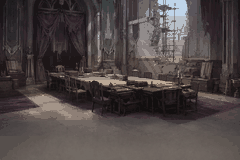
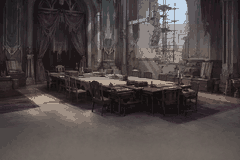
fix(grado): separate visual IDs from sentinels and constrain palette banks
Apply the bound third-round redesign with named designated BG/CG IDs and six-bank carriers through existing data slots. Exercise twenty production debug-ROM consumers, actual tile/palette transfers and persisted CG bits through ARM GDB. Keep the broader stock/random/outgoing/default and artistic qualification explicitly open.

Changed region(s): [[0.6708, 0.0938, 0.7875, 0.25], [0.9042, 0.5938, 0.9333, 0.625], [0.4083, 0.2188, 0.4375, 0.25]]

diff --git a/tools/gba-playtest/tests/test_grado_visuals_native.py b/tools/gba-playtest/tests/test_grado_visuals_native.py
@@ -5,6 +5,8 @@ import itertools
 import json
 import os
 from pathlib import Path
+import re
+import shutil
 import struct
 import subprocess
 import sys
@@ -13,6 +15,7 @@ import unittest
 
 from scripts.localization.game_catalog.tests.runtime.initial_cache_native import _selected_tools
 from scripts.generated_data.validators import extract_enum_constants
+from scripts.modernize import gdb_smoke
 
 ROOT = Path(__file__).resolve().parents[3]
 sys.path.insert(0, str(ROOT / "tools/gba-playtest"))
@@ -24,10 +27,10 @@ from probe_bindings import resolve_elf_symbol, resolve_elf_symbol_address
 
 @unittest.skipIf(host_only_enabled(), "explicit host-only lane excludes ARM/libmGBA execution")
 class GradoVisualNativeTests(unittest.TestCase):
-    def run_command(self, command, *, cwd):
+    def run_command(self, command, *, cwd, timeout=90):
         result = subprocess.run(
             [str(value) for value in command], cwd=cwd,
-            capture_output=True, text=True, timeout=90,
+            capture_output=True, text=True, timeout=timeout,
         )
         self.assertEqual(result.returncode, 0, result.stdout + result.stderr)
 
@@ -492,3 +495,155 @@ ASSERT(SIZEOF(.data) + SIZEOF(.ewram) < 0x40000, "module EWRAM overflow")
                 "accepted CH02 (7,10) route is now reachable; update the retained warning",
             )
             print(json.dumps({"actual_native_records": observed}, sort_keys=True))
+
+    def test_selected_static_consumers(self):
+        output = ROOT / "build/projects/restoration-of-grado/primary/debug/aapcs"
+        self.run_command([
+            "make", "--no-print-directory", "-j2", "FE8_PROJECT=restoration-of-grado",
+            "FE8_PROJECT_PROFILE=primary", "MODERN_CONFIG=debug", "expansion-modern-rom",
+        ], cwd=ROOT, timeout=900)
+        elf, rom = output / "fireemblem8.elf", output / "fireemblem8.gba"
+        gdb = gdb_smoke.select_command(("arm-none-eabi-gdb", "gdb-multiarch"), "ARM GDB")
+        mgba = gdb_smoke.select_command(("mgba", "/usr/games/mgba"), "mGBA SDL frontend")
+        records = []
+        with tempfile.TemporaryDirectory(prefix="grado-static-native-", dir=ROOT / "build") as directory:
+            work = Path(directory)
+            palette_guard = b"\x5a\x5a" * 512
+            tilemap_guard = b"\x77\x77" * 1024
+            for name, data in (
+                ("palette-input", palette_guard), ("tilemap-input", tilemap_guard),
+            ):
+                (work / name).write_bytes(data)
+
+            def capture(setup, call, bg):
+                self.assertTrue(gdb_smoke.port_is_available(2345), "mGBA GDB port is occupied")
+                # One inferior call per fresh boot: repeated calls are not reliable in mGBA 0.10.
+                with tempfile.TemporaryDirectory(prefix="boot-", dir=work) as boot_directory:
+                    boot = Path(boot_directory)
+                    shutil.copyfile(rom, boot / "probe.gba")
+                    address = 0x06008000 if bg == 3 else 0x06000000
+                    commands = [
+                        "set pagination off", "set confirm off",
+                        "target remote 127.0.0.1:2345", "break StartGame", "continue", "disable 1",
+                        "set gLCDControlBuffer.bg2cnt.charBaseBlock = 0",
+                        "set gLCDControlBuffer.bg3cnt.charBaseBlock = 2",
+                        f"restore {work / 'palette-input'} binary &gPaletteBuffer",
+                        f"restore {work / 'tilemap-input'} binary &gBG{bg}TilemapBuffer",
+                        f"dump binary memory {boot / 'graphics-before'} {address:#x} {address + 0x5000:#x}",
+                        'printf "SRAM_OFFSET=%u\\n", ((char *)&gSram->unkstruct2-(char *)gSram)',
+                        "set $sp = $sp - 512",
+                        *setup, call,
+                        f"dump binary memory {boot / 'graphics'} {address:#x} {address + 0x5000:#x}",
+                        f"dump binary memory {boot / 'tilemap'} &gBG{bg}TilemapBuffer ((char *)&gBG{bg}TilemapBuffer+0x800)",
+                        f"dump binary memory {boot / 'palette'} &gPaletteBuffer ((char *)&gPaletteBuffer+0x400)",
+                        "disconnect",
+                    ]
+                    script = boot / "commands.gdb"
+                    script.write_text("\n".join(commands) + "\n", encoding="ascii")
+                    environment = os.environ.copy()
+                    environment.update(SDL_VIDEODRIVER="dummy", SDL_AUDIODRIVER="dummy")
+                    with (boot / "mgba.log").open("w+") as log:
+                        process = subprocess.Popen(
+                            [mgba, "-g", str(boot / "probe.gba")], env=environment,
+                            stdout=log, stderr=subprocess.STDOUT,
+                        )
+                        try:
+                            gdb_smoke.wait_for_server(process, 2345, 15)
+                            result = subprocess.run(
+                                [gdb, "-q", "-batch", str(elf), "-x", str(script)],
+                                capture_output=True, text=True, timeout=45,
+                            )
+                            self.assertEqual(result.returncode, 0, result.stdout + result.stderr)
+                        finally:
+                            gdb_smoke.terminate(process)
+                    offsets = re.findall(r"^SRAM_OFFSET=(\d+)$", result.stdout, re.MULTILINE)
+                    self.assertEqual(len(offsets), 1, result.stdout)
+                    offset = int(offsets[0])
+                    save = (boot / "probe.sav").read_bytes()
+                    self.assertGreaterEqual(len(save), offset + 20)
+                    return {
+                        **{name: (boot / name).read_bytes() for name in (
+                            "graphics", "graphics-before", "tilemap", "palette",
+                        )},
+                        "saved-cg": save[offset:offset + 20],
+                    }
+
+            carriers = (
+                (1, 0x38, "bg/grado_imperial_tomb"),
+                (1, 0x39, "bg/grado_council_hall"),
+                (2, 10, "cg/grado_funeral_omen"),
+                (2, 11, "cg/grado_title"),
+            )
+            for kind, index, carrier in carriers:
+                prefix = ROOT / "graphics" / carrier
+                raw = prefix.with_suffix(".feimg2.bin").read_bytes()
+                tsa = prefix.with_suffix(".fetsa2.bin").read_bytes()
+                palette = prefix.with_suffix(".gbapal").read_bytes()
+                self.assertEqual(tsa[:2], bytes((29, 19)))
+                entries = struct.unpack_from("<600H", tsa, 2)
+                self.assertLess(max(value >> 12 for value in entries), 6)
+                self.assertLessEqual(len(raw), 0x5000)
+                for route in ("direct", "fade2", "fade3", "literal", "slot2"):
+                    with self.subTest(carrier=carrier, route=route):
+                        bg = 2 if route == "fade2" else 3
+                        pal = 0 if bg == 2 else 8
+                        count = 6 if route.startswith("fade") else 8
+                        setup = []
+                        if route.startswith("fade"):
+                            setup = [
+                                "set $fade = (struct ConvoBackgroundFadeProc *)$sp",
+                                f"set $fade->unkType = {kind}",
+                                f"set $fade->bgIndex = {index}",
+                            ]
+                            call = f"call ConvoBackgroundFade_LoadBg{bg}($fade)"
+                        elif route in ("literal", "slot2"):
+                            setup = [
+                                "set $event = (struct EventEngineProc *)$sp",
+                                "set $event->pEventCurrent = (unsigned short *)($sp+256)",
+                                "set {unsigned short}($sp+256) = 0x2140",
+                                f"set {{short}}($sp+258) = {index if route == 'literal' else -1}",
+                                f"set $event->activeTextType = {kind}",
+                                f"set gEventSlots[2] = {index}",
+                            ]
+                            call = "call Event21_TextBg($event)"
+                        else:
+                            call = f"call EventShowTextBgDirect({kind}, {index})"
+                        actual = capture(setup, call, bg)
+                        expected_graphics = (
+                            raw.ljust(0x5000, b"\x00") if kind == 2
+                            else raw + actual["graphics-before"][len(raw):]
+                        )
+                        expected_map = bytearray(tilemap_guard)
+                        for y in range(20):
+                            for x in range(30):
+                                struct.pack_into(
+                                    "<H", expected_map, 2 * (y * 32 + x),
+                                    entries[(19 - y) * 30 + x] + (pal << 12),
+                                )
+                        expected_palette = bytearray(palette_guard)
+                        expected_palette[pal * 32:(pal + count) * 32] = palette[:count * 32]
+                        if kind == 1:
+                            expected_palette[:2] = b"\x00\x00"
+                        for name, expected in (
+                            ("graphics", expected_graphics), ("tilemap", expected_map),
+                            ("palette", expected_palette),
+                        ):
+                            mismatch = next(
+                                (i for i, pair in enumerate(zip(actual[name], expected))
+                                 if pair[0] != pair[1]), None,
+                            )
+                            self.assertEqual(len(actual[name]), len(expected), name)
+                            self.assertIsNone(
+                                mismatch, f"{carrier}/{route}: {name} first mismatch {mismatch}",
+                            )
+                        saved = struct.unpack("<4I2H", actual["saved-cg"])
+                        expected_bits = (1 << index) if kind == 2 else 0
+                        self.assertEqual(saved, (expected_bits, 0, 0, 0, 2 * expected_bits, 0))
+                        records.append({
+                            "carrier": carrier, "route": route,
+                            "graphics_bytes": len(actual["graphics"]),
+                            "tilemap_bytes": len(actual["tilemap"]),
+                            "palette_bytes": len(actual["palette"]),
+                            "saved_cg_bits": saved[0],
+                        })
+        print(json.dumps({"selected_static_consumers": records}, sort_keys=True))

diff --git a/examples/restoration-of-grado/providers/eventscr2.c b/examples/restoration-of-grado/providers/eventscr2.c
@@ -1,4 +1,5 @@
 #include "global.h"
+#include "../include/grado_visuals.h"
 
 #include "hardware.h"
 #include "proc.h"
@@ -141,6 +142,8 @@ struct CONST_DATA gfx_set gConvoBackgroundData[] = {
 	{bg_Black_Temple_Outside_tiles, bg_Black_Temple_Outside_map, bg_Black_Temple_Outside_palette},
 	{bg_Black_Temple_Inside_tiles, bg_Black_Temple_Inside_map, bg_Black_Temple_Inside_palette},
 	{bg_Blank_tiles, bg_Blank_map, bg_Blank_palette},
-	{bg_Grado_Imperial_Tomb_tiles, bg_Grado_Imperial_Tomb_map, bg_Grado_Imperial_Tomb_palette},
-	{bg_Grado_Council_Hall_tiles, bg_Grado_Council_Hall_map, bg_Grado_Council_Hall_palette},
+    [GRADO_BG_IMPERIAL_TOMB] =
+        {bg_Grado_Imperial_Tomb_tiles, bg_Grado_Imperial_Tomb_map, bg_Grado_Imperial_Tomb_palette},
+    [GRADO_BG_COUNCIL_HALL] =
+        {bg_Grado_Council_Hall_tiles, bg_Grado_Council_Hall_map, bg_Grado_Council_Hall_palette},
 };

diff --git a/examples/restoration-of-grado/providers/cg.c b/examples/restoration-of-grado/providers/cg.c
@@ -1,4 +1,5 @@
 #include "global.h"
+#include "../include/grado_visuals.h"
 #include "bmlib.h"
 #include "hardware.h"
 
@@ -226,8 +227,10 @@ struct CGDataEnt CONST_DATA gCGDataTable[] = {
     { cg_7_tiles, cg_7_map, cg_7_palette, },
     { cg_8_tiles, cg_8_map, cg_8_palette, },
     { cg_9_tiles, cg_9_map, cg_9_palette, },
-    { cg_grado_funeral_omen_tiles, cg_grado_funeral_omen_map, cg_grado_funeral_omen_palette, },
-    { cg_grado_title_tiles, cg_grado_title_map, cg_grado_title_palette, },
+    [GRADO_CG_FUNERAL_OMEN] =
+        { cg_grado_funeral_omen_tiles, cg_grado_funeral_omen_map, cg_grado_funeral_omen_palette, },
+    [GRADO_CG_TITLE] =
+        { cg_grado_title_tiles, cg_grado_title_map, cg_grado_title_palette, },
 };
 
 //! FE8U = 0x080B65EC

diff --git a/scripts/assets/tests/test_grado_visuals.py b/scripts/assets/tests/test_grado_visuals.py
@@ -52,8 +52,8 @@ class GradoVisualAssetTests(unittest.TestCase):
 
     def test_static_carriers_use_existing_tsa_and_palette_consumers(self):
         carriers = {
-            "graphics/bg/grado_imperial_tomb.png": 8,
-            "graphics/bg/grado_council_hall.png": 8,
+            "graphics/bg/grado_imperial_tomb.png": 6,
+            "graphics/bg/grado_council_hall.png": 6,
             "graphics/cg/grado_funeral_omen.png": 6,
             "graphics/cg/grado_title.png": 6,
         }

diff --git a/examples/restoration-of-grado/include/grado_visuals.h b/examples/restoration-of-grado/include/grado_visuals.h
@@ -1,0 +1,16 @@
+#ifndef GUARD_GRADO_VISUALS_H
+#define GUARD_GRADO_VISUALS_H
+
+enum GradoConvoBackground
+{
+    GRADO_BG_IMPERIAL_TOMB = 0x38,
+    GRADO_BG_COUNCIL_HALL = 0x39,
+};
+
+enum GradoCg
+{
+    GRADO_CG_FUNERAL_OMEN = 10,
+    GRADO_CG_TITLE = 11,
+};
+
+#endif

diff --git a/examples/restoration-of-grado/assets/README.md b/examples/restoration-of-grado/assets/README.md
@@ -190,8 +190,8 @@ opaque artwork. The source PNG and referenced native TSA tiles must contain
 no transparent pixels.
 The committed project PNGs are:
 
-* `grado_imperial_tomb.png` and `grado_council_hall.png`: ordinary dialogue BG
-  carriers, at most eight 16-color banks;
+* `grado_imperial_tomb.png` and `grado_council_hall.png`: dialogue BG
+  carriers, at most six 16-color banks for direct and crossfade loading;
 * `grado_funeral_omen.png`: CH00 event CG/carrier for a six-bank crossfade;
 * `grado_title.png`: title-master carrier for a six-bank special transition.
 
@@ -201,13 +201,29 @@ dependencies cannot discard the PNG input of an implicit multi-target rule.
 The regression invokes actual GNU Make with that ordering edge and checks
 all four converter argument vectors.
 The `restoration-of-grado/primary` project replaces only the four existing BG/CG
-code/data owners; default consumers and ROM data are unchanged. Its ordinary
+code/data owners; default consumers and ROM data are unchanged. The data-slot
+replacements retain native INCBIN preprocessing and asset dependencies.
+Additional ordinary C sources do not provide that preprocessing, so these raw
+owners cannot be moved to `FE8_PROJECT_C_SOURCES`.
+
+The project header `../include/grado_visuals.h` supplies named designated
+entries: `GRADO_BG_IMPERIAL_TOMB` is `0x38`, `GRADO_BG_COUNCIL_HALL` is `0x39`,
+`GRADO_CG_FUNERAL_OMEN` is `10`, and `GRADO_CG_TITLE` is `11`. Stock BG
+entries `0x00` through `0x35`, stock CG entries `0` through `9`, and
+the `BG_RANDOM` sentinel `0x37` are unchanged. The unused BG hole `0x36`
+is not a public project ID. The title carrier is not boot-title integration.
+CG IDs retain the original save-index bookkeeping.
+
+All four carriers use at most six banks: direct BG loading copies eight
+banks, but both fade loaders and both outgoing palette copies use only six.
+There is no project-only rendering path or enlarged palette copy.
+Its ordinary
 BGs enter `gConvoBackgroundData` with a 1,202-byte TSA and a 512-byte
 256-color palette file. The CG/title raw owners are split into ten 2,048-byte
 partitions expected by `DisplayCGfx`, then each uses the existing gbagfx LZ
 rule and a selected `gCGDataTable` entry. The public focused test regenerates
-the tile/TSA bytes, validates bank IDs and partitions, and rejects an ordinary
-carrier over eight banks or a crossfade carrier over six. Both CG partition
+the tile/TSA bytes, validates bank IDs and partitions, and rejects any of the
+four carriers over six banks. Both CG partition
 families are ignored build output owned by `clean` and `clean_fast`.
 Changing the splitter invalidates both families without changing the source
 image. The regression builds real partitions in a temporary directory, checks
@@ -236,9 +252,39 @@ make FE8_PROJECT=restoration-of-grado FE8_PROJECT_PROFILE=primary \
   build/projects/restoration-of-grado/primary/release/aapcs/src/data/ending/ending_cg.o
 ```
 
-The negative controls are the default project (none of these owners or data
-symbols is linked) and a carrier whose TSA requests a ninth ordinary or
-seventh crossfade palette bank.
+The negative controls are the default project (none of these project owners or
+data symbols is linked) and a carrier whose TSA requests a seventh palette
+bank. Restoring either former eight-bank BG must fail the carrier regression.
+
+The native suite also runs `GradoVisualNativeTests.test_selected_static_consumers`.
+This builds the selected debug ROM through Make and uses the existing ARM GDB
+and mGBA SDL frontend, including the distribution's `/usr/games/mgba` location.
+These are already supported quickstart tools; the modern CI job installs them
+for this case. Using the full compiled ROM avoids source extraction, replacement
+event functions or a parallel renderer fixture. The original engine initializes
+SRAM, RAM routines and game state before the `StartGame` breakpoint.
+
+Each of the four carriers runs through direct loading, both fade loaders,
+literal `Event21_TextBg` dispatch and slot-2 dispatch. A fresh temporary ROM
+copy and SRAM file isolate each of these twenty executions. GDB supplies typed
+event/proc inputs and checks actual VRAM, complete background tilemap/palette
+buffers and persisted CG bookkeeping, including its checksum. Expected pixels'
+encoded tile bytes, bottom-to-top TSA rows and palette bytes come from the real
+asset producers, not captured output. Guarded unused RAM stays unchanged;
+unused VRAM is compared with its captured pre-call state.
+
+Swap the two project BG table entries: all ten BG cases must fail their native
+graphics comparison. Swap the title CG's first two partitions: all five title
+cases must fail while the funeral carrier remains correct. Restore both
+mutations before normal builds. The test removes its own emulator processes
+and temporary files; an occupied GDB port fails without stopping another user.
+Only one inferior call is made per boot because repeated inferior calls are
+unreliable with the supported mGBA 0.10 frontend.
+
+This is instrumented selected-ROM memory/save evidence, not non-instrumented
+artistic acceptance or framebuffer evidence. Stock/default, random dispatch
+and outgoing-copy coverage remain required before this unfinished package is
+qualified; the twenty cases must not be relabeled as that complete family.
 
 The conversion evidence and compile/link binding do not establish subjective
 art acceptance. Material blockers remain: the four original CH00/CH02 portrait
